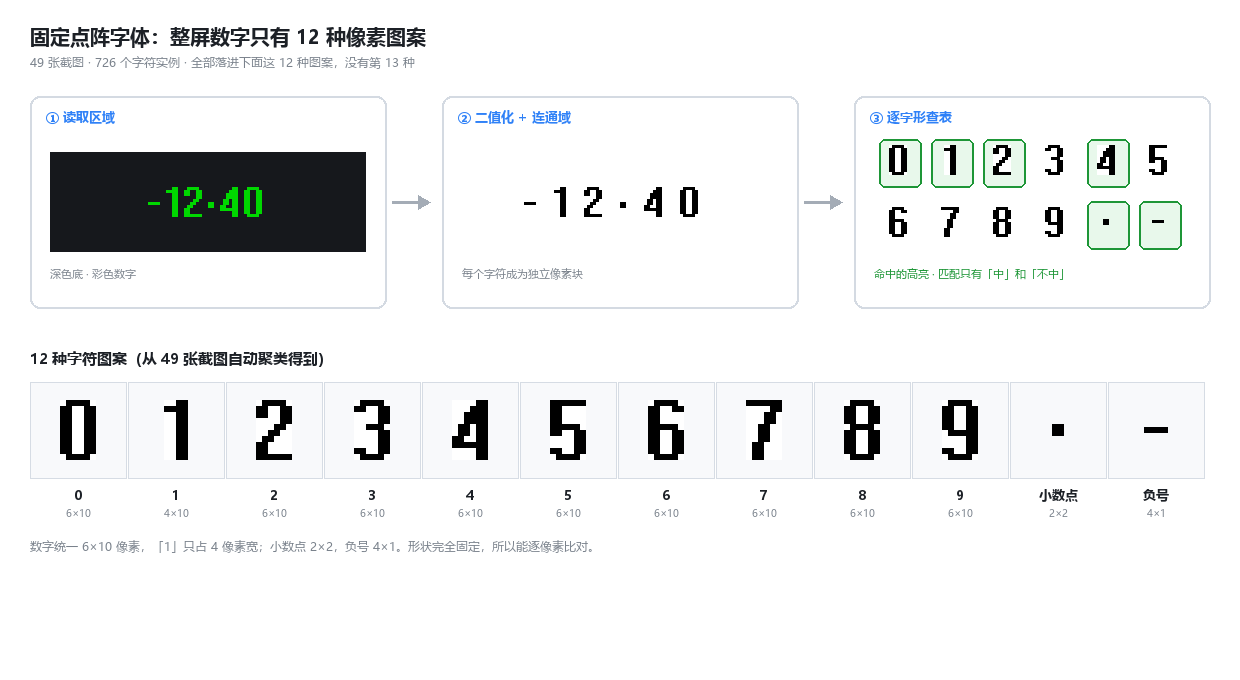
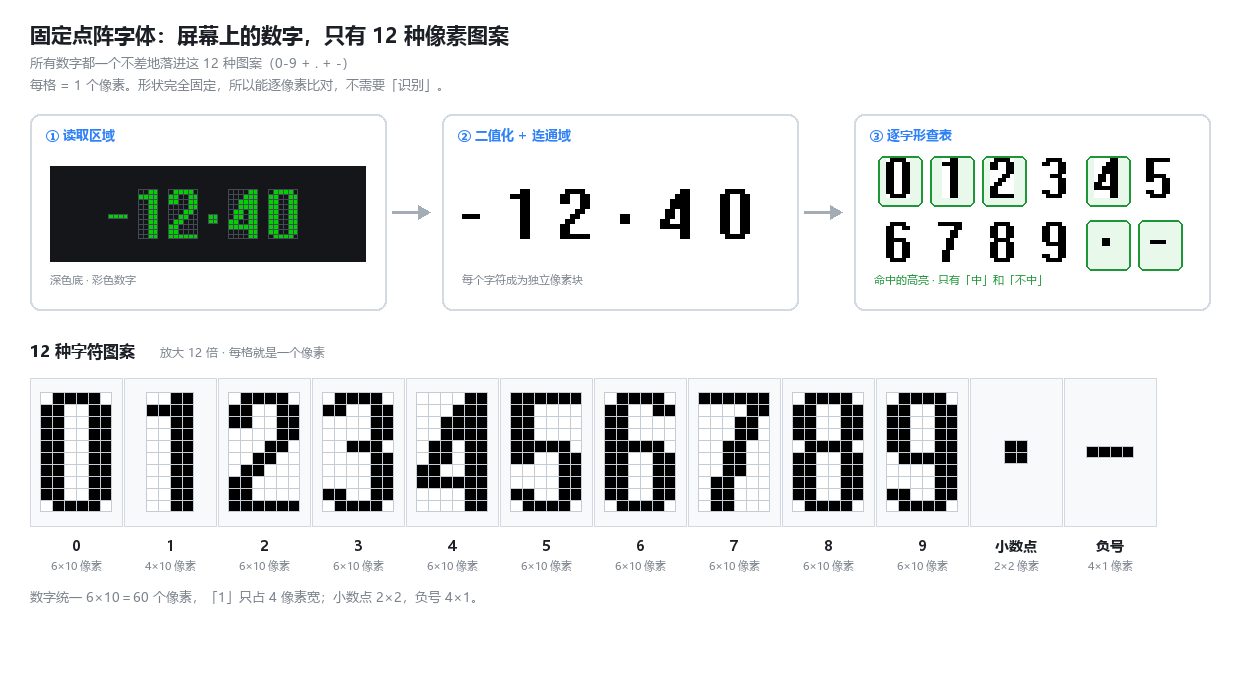
字形图改画像素网格，让点阵可见；文案去掉具体张数与实例数

diff --git a/README.md b/README.md
@@ -80,7 +80,7 @@ flowchart LR
 
 ### 为什么放弃 OCR
 
-终端数字用的是**固定点阵字体**——49 张截图里 **726 个字符实例，一个不差地落进 12 种像素图案**（`0-9` + `.` + `-`）。
+终端数字用的是**固定点阵字体**——**所有数字都一个不差地落进这 12 种像素图案**（`0-9` + `.` + `-`）。
 
 ![点阵字形原理](assets/glyphs-12.png)
 
